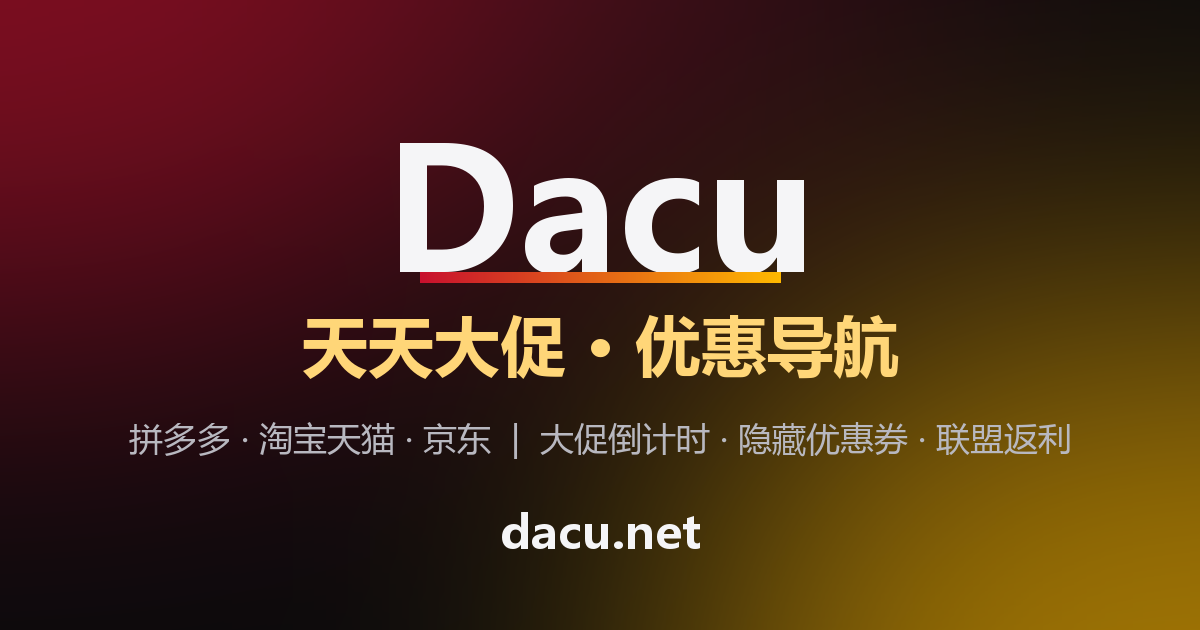
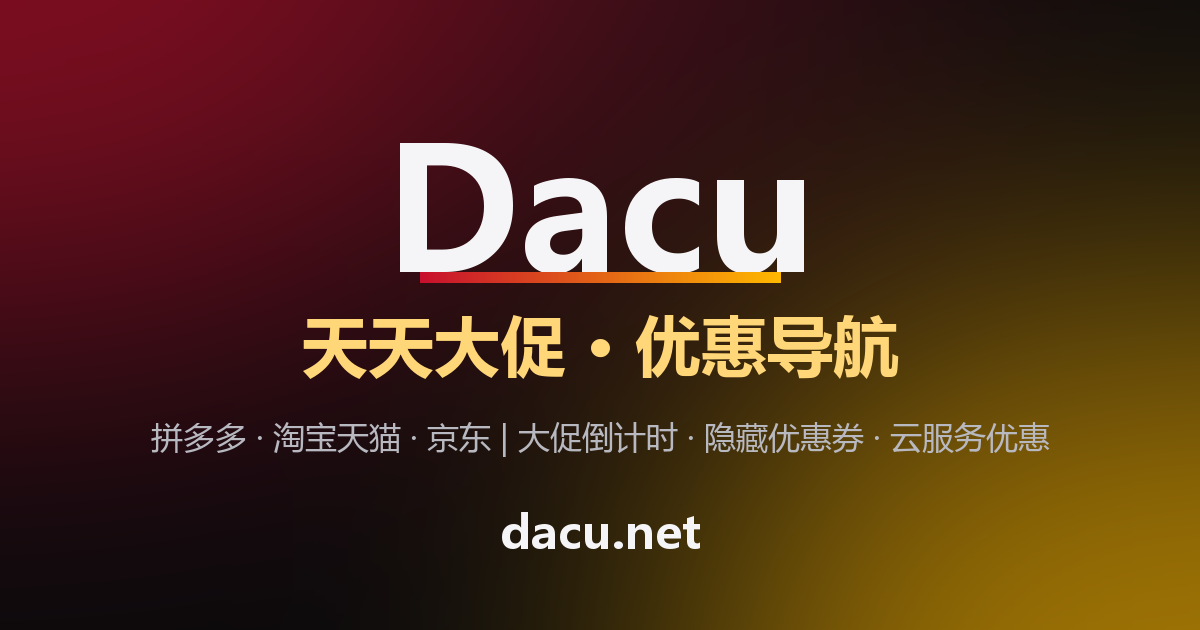
移除所有微信联系方式(买家不需要知道个人微信)
- 删除 4 个页面的「微信订阅」卡片与页脚微信号
- 清理 meta/JSON-LD/关于段落/llms.txt 中的联系方式
- site.js 移除复制微信号逻辑(v4)
- og-cover 分享图去掉「联盟返利」字样;实体店海报微信行改为「收藏 dacu.net」
- 首页 FAQ 同步更新:大促时间口径修正、去掉返佣表述

Changed region(s): [[0.0925, 0.6635, 0.8942, 0.7238]]

diff --git a/index.html b/index.html
@@ -44,7 +44,7 @@
       "name": "Dacu",
       "url": "https://dacu.net/",
       "logo": "https://dacu.net/assets/og-cover.png",
-      "description": "Dacu 运营优惠导航网站 dacu.net,联系方式:微信 9262895。"
+      "description": "Dacu 运营优惠导航网站 dacu.net,聚焦电商大促与云服务优惠信息。"
     },
     {
       "@type": "ItemList",
@@ -122,7 +122,7 @@
         },
         {
           "@type": "Question", "name": "本站的推荐链接是广告吗?",
-          "acceptedAnswer": { "@type": "Answer", "text": "部分链接为推广链接。下单价格与官方一致,不影响你的优惠;成交后本站可能获得一点返佣,这也是本站维持下去的方式。" }
+          "acceptedAnswer": { "@type": "Answer", "text": "部分链接为推广链接。下单价格与官方一致,不影响你的优惠。" }
         }
       ]
     }
@@ -213,19 +213,6 @@
       </div>
     </section>
 
-    <!-- 微信订阅 -->
-    <section class="sec" aria-label="微信订阅">
-      <h2 class="st">开抢提醒 · 不打扰</h2>
-      <div class="wechat-box">
-        <div class="row">
-          <span>添加微信</span>
-          <strong id="wxid">9262895</strong>
-          <button type="button" id="copyBtn">复制</button>
-        </div>
-        <p class="wxmsg" id="wxmsg"></p>
-      </div>
-    </section>
-
     <!-- 常见问题(SEO/GEO) -->
     <section class="sec" aria-label="常见问题">
       <h2 class="st">常见问题</h2>
@@ -240,11 +227,11 @@
         </details>
         <details>
           <summary>三场大促分别在什么时候开始?</summary>
-          <p>中秋国庆大促 10 月 1 日 00:00 开启,双 11 大促 11 月 11 日 00:00 开启,双 12 大促 12 月 12 日 00:00 开启。对应页面均提供实时倒计时,开始与结束会自动切换提醒。</p>
+          <p>中秋国庆大促每年 10 月 1 日开启;双 11 大促各平台一般 10 月中下旬陆续开卖,11 月 11 日为最终爆发日;双 12 大促 12 月 12 日开启。对应页面提供实时倒计时与平台打法速查,开始与结束会自动切换提醒。</p>
         </details>
         <details>
           <summary>本站的推荐链接是广告吗?</summary>
-          <p>部分链接为推广链接。下单价格与官方一致,不影响你的优惠;成交后本站可能获得一点返佣,这也是本站维持下去的方式。</p>
+          <p>部分链接为推广链接。下单价格与官方一致,不影响你的优惠。</p>
         </details>
       </div>
     </section>
@@ -252,7 +239,7 @@
     <!-- 关于(GEO 实体信息) -->
     <section class="sec" aria-label="关于">
       <h2 class="st">关于 Dacu</h2>
-      <p class="about">dacu.net 是 <b>Dacu</b> 运营的优惠导航网站,创建于 <b>2026 年</b>,收录<b>拼多多、淘宝天猫、京东</b>三大平台的官方优惠入口,以及<b>腾讯云、阿里云</b>的长期优惠,并为国庆、双 11、双 12 大促提供倒计时提醒。联系方式:微信 <b>9262895</b>。本页最后更新于 <b>2026 年 10 月 15 日</b>。</p>
+      <p class="about">dacu.net 是 <b>Dacu</b> 运营的优惠导航网站,创建于 <b>2026 年</b>,收录<b>拼多多、淘宝天猫、京东</b>三大平台的官方优惠入口,以及<b>腾讯云、阿里云</b>的长期优惠,并为国庆、双 11、双 12 大促提供倒计时提醒。本页最后更新于 <b>2026 年 11 月 1 日</b>。</p>
     </section>
   </div>
 </main>
@@ -266,10 +253,10 @@
       </ul>
     </div>
     <!-- FRIEND-LINKS:END -->
-  © <span id="y"></span> Dacu · 微信 <strong>9262895</strong> · <a href="https://dacu.net/">dacu.net</a>
+  © <span id="y"></span> Dacu · <a href="https://dacu.net/">dacu.net</a>
   <p class="disclosure">本站部分链接为推广链接：下单价格与官方一致，不影响你的优惠。</p>
 </footer>
 
-<script src="./assets/site.js?v=3" defer></script>
+<script src="./assets/site.js?v=4" defer></script>
 </body>
 </html>

diff --git a/assets/site.js b/assets/site.js
@@ -1,6 +1,6 @@
 /* ============================================================
    Dacu 大促 dacu.net — 全站共享脚本
-   包含：明/暗主题切换、页脚年份、微信号复制、
+   包含：明/暗主题切换、页脚年份、
          大促倒计时（未开始/进行中/已结束 三阶段）、大促日历状态
    ============================================================ */
 
@@ -25,37 +25,10 @@ function toggleTheme(){
 
 (function(){
   'use strict';
-  var WXID='9262895';
 
   /* 页脚年份 */
   var y=document.getElementById('y');
   if(y) y.textContent=new Date().getFullYear();
-
-  /* 复制微信号 */
-  var copyBtn=document.getElementById('copyBtn');
-  if(copyBtn){
-    var msg=document.getElementById('wxmsg');
-    var ok=function(){
-      msg.style.color='var(--green)';
-      msg.textContent='✓ 已复制微信号 '+WXID+' · 请在微信中搜索添加';
-      copyBtn.textContent='已复制';
-      setTimeout(function(){copyBtn.textContent='复制';msg.textContent='';},3000);
-    };
-    var fallback=function(){
-      try{
-        var ta=document.createElement('textarea');
-        ta.value=WXID;ta.style.position='fixed';ta.style.opacity='0';
-        document.body.appendChild(ta);ta.select();document.execCommand('copy');document.body.removeChild(ta);
-        ok();
-      }catch(e){
-        msg.style.color='var(--accent)';msg.textContent='复制失败,请手动复制: '+WXID;
-      }
-    };
-    copyBtn.addEventListener('click',function(){
-      if(navigator.clipboard&&window.isSecureContext){navigator.clipboard.writeText(WXID).then(ok).catch(fallback);}
-      else{fallback();}
-    });
-  }
 
   /* 主推横幅:按日期自动切换大促(每年自动,无需维护) */
   var banner=document.getElementById('promoBanner');

diff --git a/shuang12.html b/shuang12.html
@@ -12,7 +12,7 @@
 <meta name="robots" content="index,follow">
 <meta property="og:site_name" content="Dacu 大促">
 <meta property="og:title" content="双 12 大促 · 12月12日开抢">
-<meta property="og:description" content="年终跨店满减、品类日爆品直降、双 12 专属券包,实时倒计时,添加微信 9262895 第一时间开抢。">
+<meta property="og:description" content="年终跨店满减、品类日爆品直降、双 12 专属券包,实时倒计时,提前锁定全年低价。">
 <meta property="og:type" content="website">
 <meta property="og:url" content="https://dacu.net/shuang12.html">
 <meta property="og:locale" content="zh_CN">
@@ -134,17 +134,6 @@
         </article>
       </div>
     </section>
-    <section class="sec" aria-label="微信订阅">
-      <h2 class="st">开抢提醒 · 第一时间通知</h2>
-      <div class="wechat-box">
-        <div class="row">
-          <span>添加微信</span>
-          <strong id="wxid">9262895</strong>
-          <button type="button" id="copyBtn">复制</button>
-        </div>
-        <p class="wxmsg" id="wxmsg"></p>
-      </div>
-    </section>
 
     <section class="sec" aria-label="其他大促">
       <h2 class="st">2026 大促日历</h2>
@@ -166,10 +155,10 @@
       </ul>
     </div>
     <!-- FRIEND-LINKS:END -->
-  © <span id="y"></span> Dacu · 微信 <strong>9262895</strong> · <a href="https://dacu.net/">dacu.net</a>
+  © <span id="y"></span> Dacu · <a href="https://dacu.net/">dacu.net</a>
   <p class="disclosure">本站部分链接为推广链接：下单价格与官方一致，不影响你的优惠。</p>
 </footer>
 
-<script src="./assets/site.js?v=3" defer></script>
+<script src="./assets/site.js?v=4" defer></script>
 </body>
 </html>

diff --git a/guoqing.html b/guoqing.html
@@ -12,7 +12,7 @@
 <meta name="robots" content="index,follow">
 <meta property="og:site_name" content="Dacu 大促">
 <meta property="og:title" content="中秋国庆大促 · 10月1日开启">
-<meta property="og:description" content="满 300 减 50、中秋礼盒低至 5 折、国庆限定福利,实时倒计时,添加微信 9262895 第一时间开抢。">
+<meta property="og:description" content="满 300 减 50、中秋礼盒低至 5 折、国庆限定福利,实时倒计时,提前锁定全年低价。">
 <meta property="og:type" content="website">
 <meta property="og:url" content="https://dacu.net/guoqing.html">
 <meta property="og:locale" content="zh_CN">
@@ -134,17 +134,6 @@
         </article>
       </div>
     </section>
-    <section class="sec" aria-label="微信订阅">
-      <h2 class="st">开抢提醒 · 第一时间通知</h2>
-      <div class="wechat-box">
-        <div class="row">
-          <span>添加微信</span>
-          <strong id="wxid">9262895</strong>
-          <button type="button" id="copyBtn">复制</button>
-        </div>
-        <p class="wxmsg" id="wxmsg"></p>
-      </div>
-    </section>
 
     <section class="sec" aria-label="其他大促">
       <h2 class="st">2026 大促日历</h2>
@@ -166,10 +155,10 @@
       </ul>
     </div>
     <!-- FRIEND-LINKS:END -->
-  © <span id="y"></span> Dacu · 微信 <strong>9262895</strong> · <a href="https://dacu.net/">dacu.net</a>
+  © <span id="y"></span> Dacu · <a href="https://dacu.net/">dacu.net</a>
   <p class="disclosure">本站部分链接为推广链接：下单价格与官方一致，不影响你的优惠。</p>
 </footer>
 
-<script src="./assets/site.js?v=3" defer></script>
+<script src="./assets/site.js?v=4" defer></script>
 </body>
 </html>

diff --git a/shuang11.html b/shuang11.html
@@ -216,17 +216,6 @@
         </article>
       </div>
     </section>
-    <section class="sec" aria-label="微信订阅">
-      <h2 class="st">开抢提醒 · 第一时间通知</h2>
-      <div class="wechat-box">
-        <div class="row">
-          <span>添加微信</span>
-          <strong id="wxid">9262895</strong>
-          <button type="button" id="copyBtn">复制</button>
-        </div>
-        <p class="wxmsg" id="wxmsg"></p>
-      </div>
-    </section>
 
     <section class="sec" aria-label="其他大促">
       <h2 class="st">2026 大促日历</h2>
@@ -248,10 +237,10 @@
       </ul>
     </div>
     <!-- FRIEND-LINKS:END -->
-  © <span id="y"></span> Dacu · 微信 <strong>9262895</strong> · <a href="https://dacu.net/">dacu.net</a>
+  © <span id="y"></span> Dacu · <a href="https://dacu.net/">dacu.net</a>
   <p class="disclosure">本站部分链接为推广链接：下单价格与官方一致，不影响你的优惠。</p>
 </footer>
 
-<script src="./assets/site.js?v=3" defer></script>
+<script src="./assets/site.js?v=4" defer></script>
 </body>
 </html>
